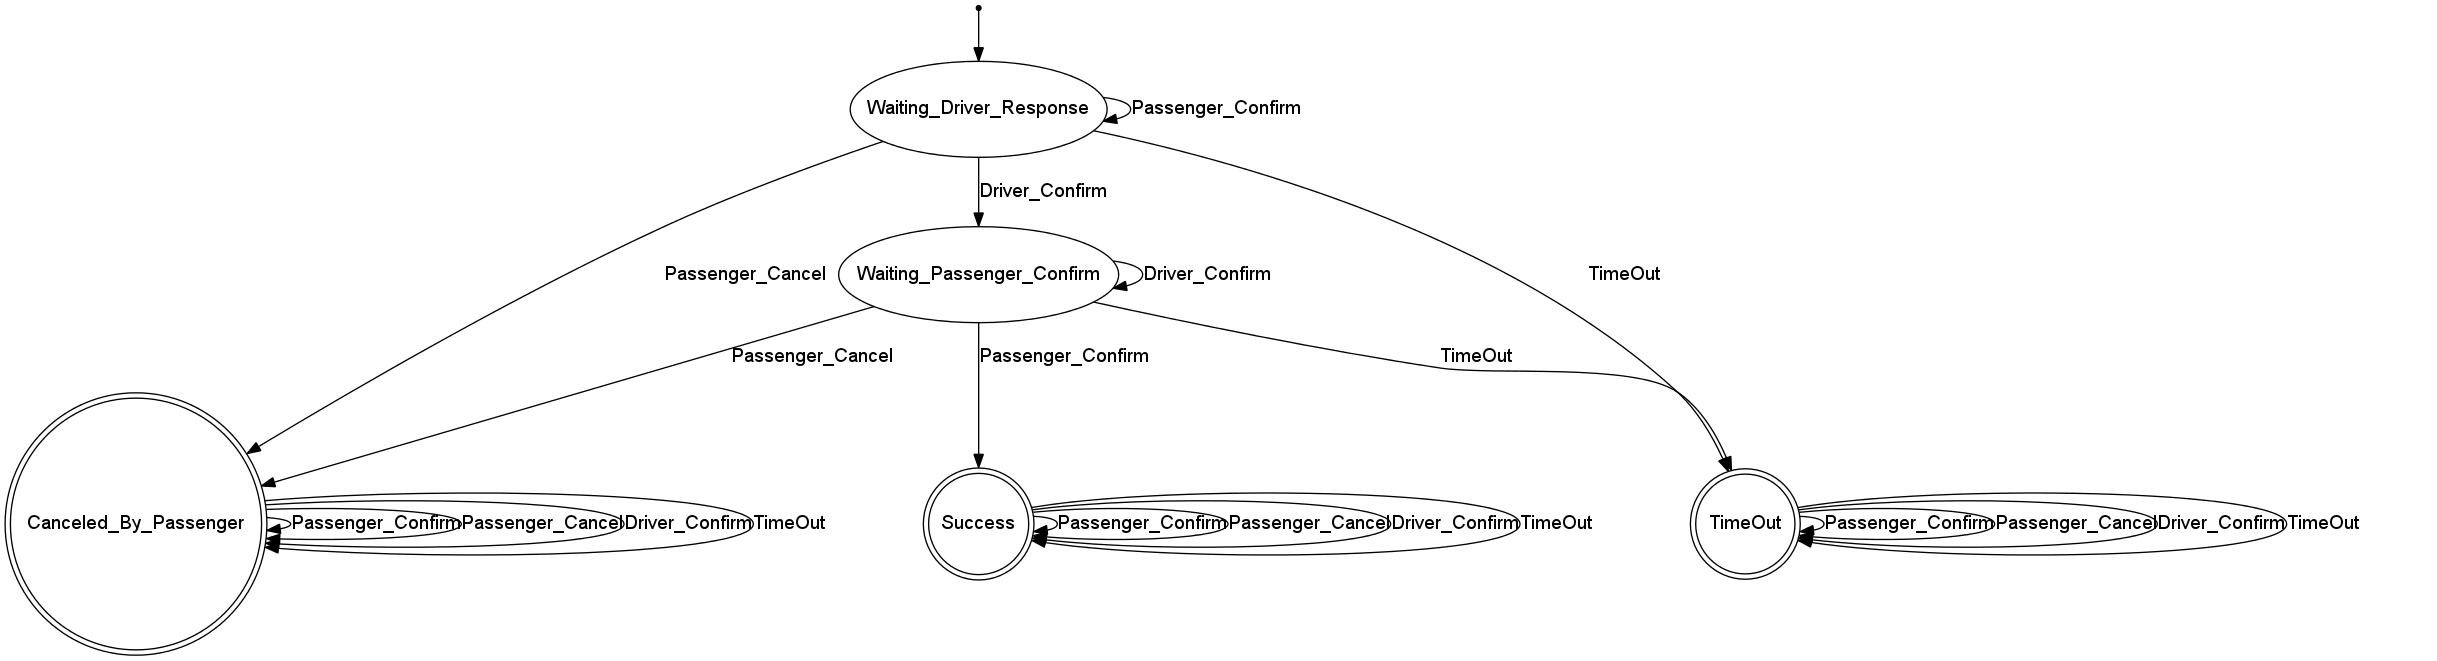
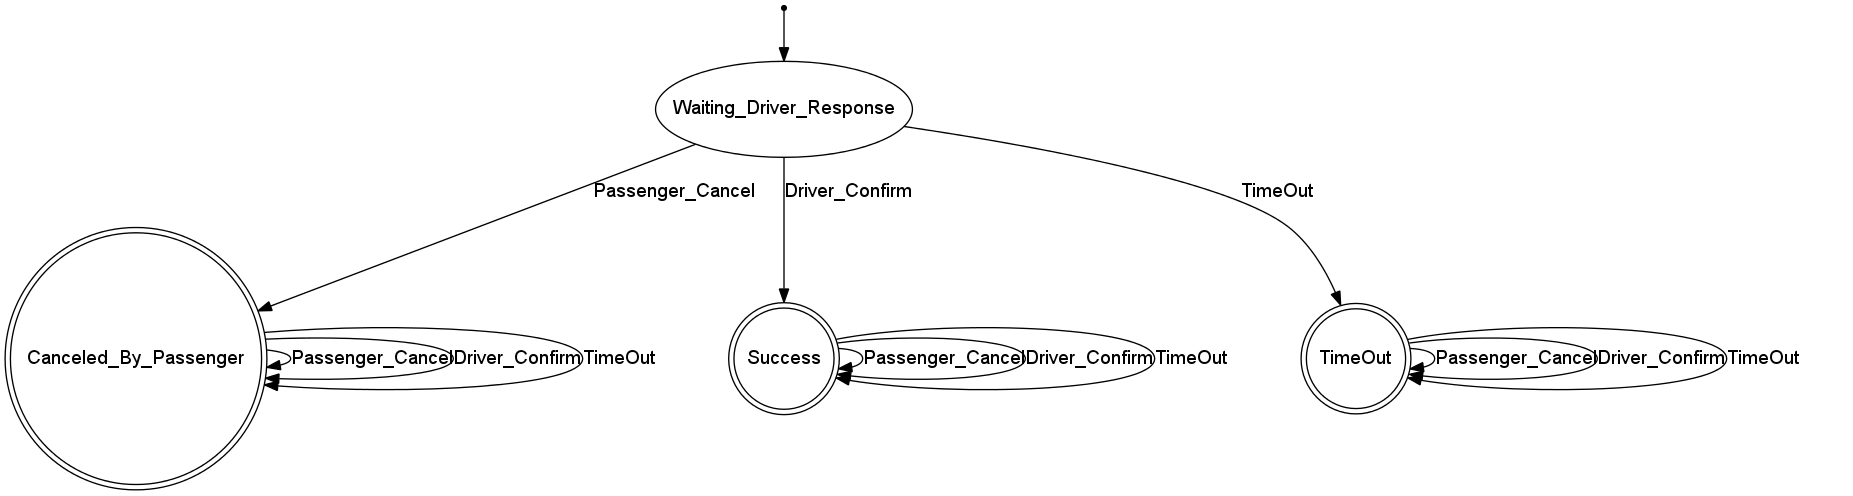
添加一些 注释

diff --git a/app/models/taxi_request.rb b/app/models/taxi_request.rb
@@ -30,8 +30,6 @@ class TaxiRequest < ActiveRecord::Base
 	TMP_FILE_NAME 			   				= 'benben_taxi'
 	ORIGINAL_FILENAME 		   				= 'benben_taxi_passenger_voice'
 
-	#TODO:: 删除掉
-	DEFAULT_WAITING_PASSENGER_CONFIRM_TIME_S = 50
 
 	DEFUALT_JSON_RESULT 					 = {
 													:only	 => [:id,:state,:passenger_mobile,:driver_mobile,:driver_score,:passenger_score,:plate,:driver_name,:source,:destination,:created_at],
@@ -58,12 +56,10 @@ class TaxiRequest < ActiveRecord::Base
 	scope :by_state,lambda {|state='Waiting_Driver_Response'|
 		where('state = ?',state)
 	}
-	#TODO:: 这个删除掉
 	scope :timeout_taxi_requests ,lambda {
-		where('(state=? or state=?) and 
+		where('(state=?) and 
 			   (timeout is not null and timeout <= ?)',
 			   'Waiting_Driver_Response',
-			   'Waiting_Passenger_Confirm',
 			   Time.now)
 	}
 	scope :today ,lambda{
@@ -141,21 +137,9 @@ class TaxiRequest < ActiveRecord::Base
 			self.save
 		end
 	end
-	def passenger_confirm(params,current_passenger)
-		ensure_no_confilit do
-			self.state_event				= 'Passenger_Confirm'
-			self.save
-		end
-	end
 	def passenger_cancel(params,current_passenger)
 		ensure_no_confilit do
 			self.state_event 				= 'Passenger_Cancel'
-			self.save
-		end
-	end
-	def passenger_confirm(params,current_passenger)
-		ensure_no_confilit do
-			self.state_event 				= 'Passenger_Confirm'
 			self.save
 		end
 	end
@@ -227,12 +211,8 @@ class TaxiRequest < ActiveRecord::Base
 
 	state_machine :initial => :Waiting_Driver_Response do
 		before_transition all => :Canceled_By_Passenger ,:do => :set_passenger_cancel_time
-		#TODO::这个去掉 因为没有人再响应乘客响应时间
-		before_transition :Waiting_Passenger_Confirm => :Success ,:do => :set_passenger_confirm_time
-		#TODO::这个改为 :Waiting_Driver_Response
-		after_transition  :Waiting_Passenger_Confirm => :Success ,:do => :update_statistics_info
-		#TODO::这个改为 Waiting_Passenger_Confirm :Success
-		before_transition :Waiting_Driver_Response   => :Waiting_Passenger_Confirm, :do => :set_response_info
+		after_transition  :Waiting_Driver_Response => :Success ,:do => :update_statistics_info
+		before_transition :Waiting_Driver_Response => :Success ,:do => :set_response_info
 		around_transition do |taxi_request, transition, block|
 			Rails.logger.debug "before #{transition.event}: #{taxi_request.state} "
 			block.call
@@ -240,10 +220,8 @@ class TaxiRequest < ActiveRecord::Base
 		end
 
 		state :Waiting_Driver_Response do
-			transition :to => :Waiting_Driver_Response      ,:on => :Passenger_Confirm
 			transition :to => :Canceled_By_Passenger 		,:on => :Passenger_Cancel
-			#TODO::这个改为:Success
-			transition :to => :Waiting_Passenger_Confirm 	,:on => :Driver_Confirm
+			transition :to => :Success 						,:on => :Driver_Confirm
 			transition :to => :TimeOut						,:on => :TimeOut
 		end
 
@@ -252,17 +230,11 @@ class TaxiRequest < ActiveRecord::Base
 			transition :Success 			  => :Success
 			transition :TimeOut 			  => :TimeOut
 		end
-		#TODO:: 这个保持改成Success 去掉transition
-		state :Waiting_Passenger_Confirm do
+		state :Success do
 			validates_presence_of :driver_id
 			validates_presence_of :driver_mobile
 			validates_presence_of :driver_location
 			validates_presence_of :driver_response_time
-
-			transition :to => :Canceled_By_Passenger		,:on => :Passenger_Cancel
-			transition :to => :Success 					,:on => :Passenger_Confirm
-			transition :to => :Waiting_Passenger_Confirm 	,:on => :Driver_Confirm
-			transition :to => :TimeOut 						,:on => :TimeOut
 		end
 	end
 
@@ -293,9 +265,7 @@ class TaxiRequest < ActiveRecord::Base
 			self.driver_location = "POINT(#{self.response_info[:driver_lng]} #{self.response_info[:driver_lat]})"
 		end
 		self.driver_response_time 		= Time.now
-		#TODO::这个也应该去掉 response之后就不需要超时时间了
-		#TODO::这个要加上passenger_confirm_time
-		self.timeout 					= DEFAULT_WAITING_PASSENGER_CONFIRM_TIME_S.seconds.since
+		self.passenger_confirm_time 	= self.driver_response_time
 	end
 	def update_statistics_info
 		User.where(:id=>[self.driver_id,self.passenger_id]).update_all("success_taxi_requests = success_taxi_requests + 1")

diff --git a/app/controllers/api/v1/taxi_requests_controller.rb b/app/controllers/api/v1/taxi_requests_controller.rb
@@ -47,15 +47,6 @@ class Api::V1::TaxiRequestsController < Api::ApiController
 		end
 	end
 
-	def confirm
-		taxi_request = current_resource
-		if taxi_request.passenger_confirm(nil,current_user)
-			render json: taxi_request.get_json
-		else
-			render json: json_errors(taxi_request.errors)
-		end
-	end
-
 	def show
 		render json:current_resource.get_json
 	end

diff --git a/config/routes.rb b/config/routes.rb
@@ -22,7 +22,6 @@ BenbenTaxi::Application.routes.draw do
         member do
           post 'response',action: :answer
           post 'cancel'
-          post 'confirm'
         end
         resources :comments,only:[:create,:index]
         collection do
